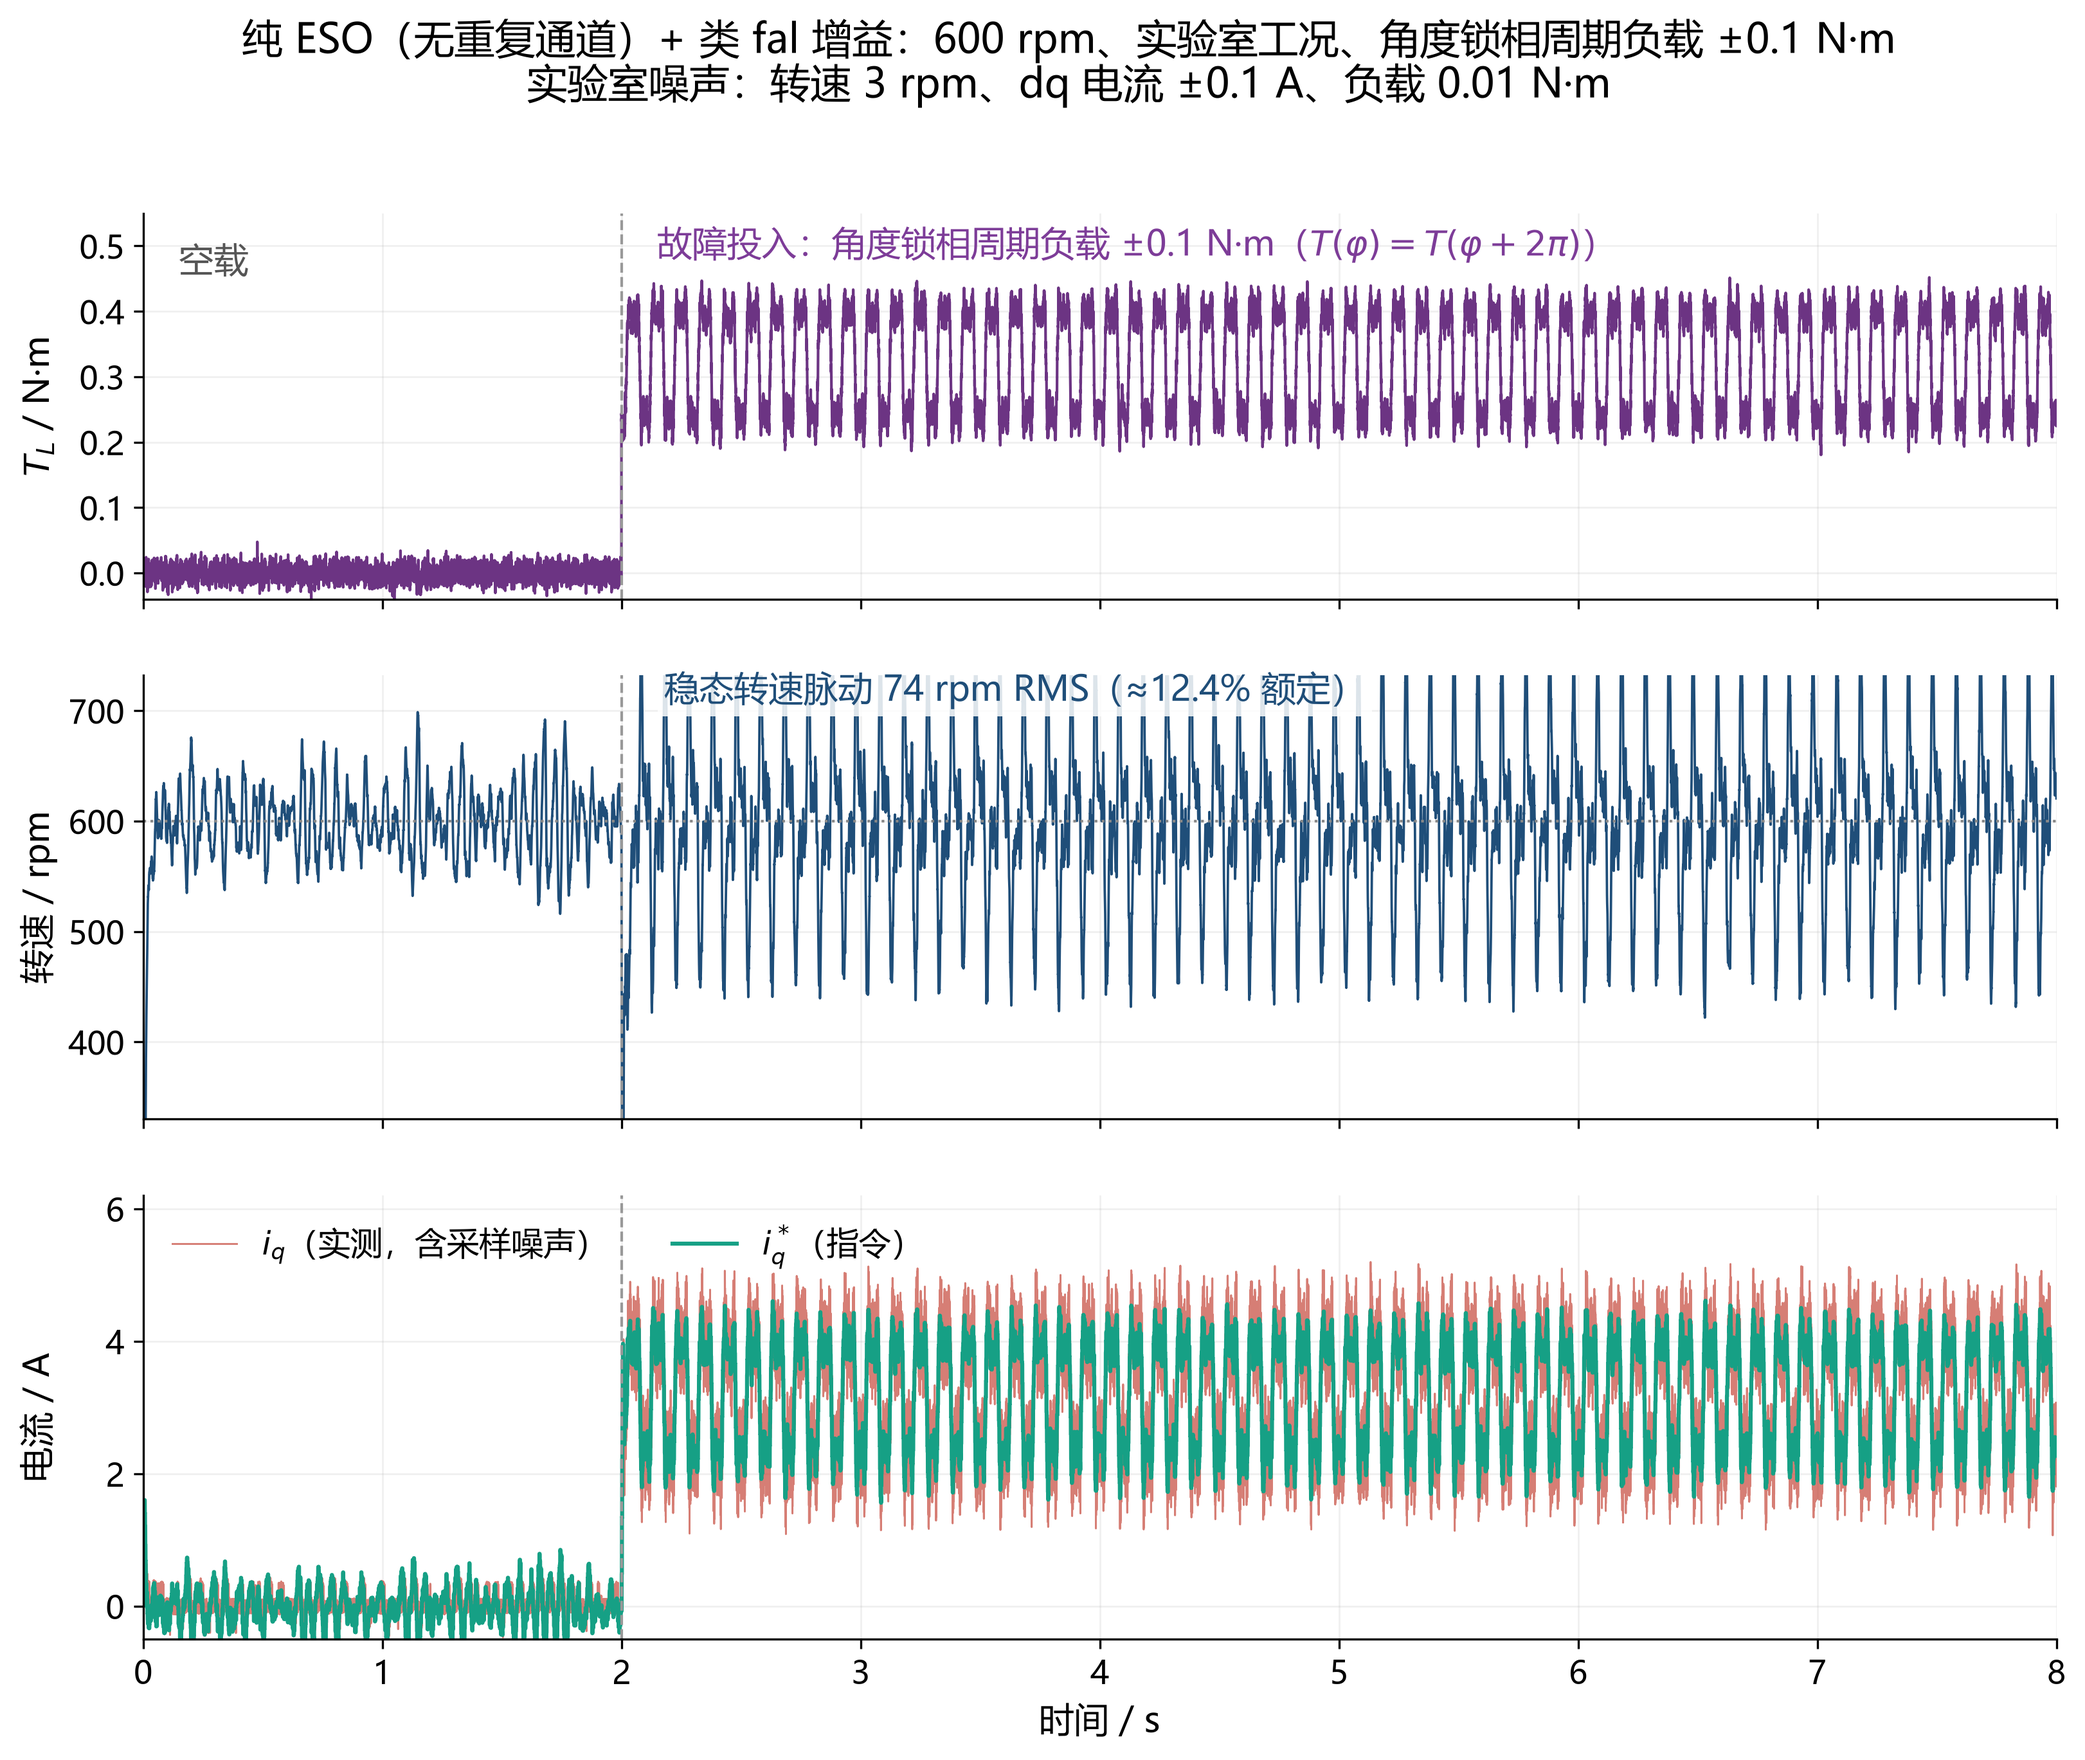
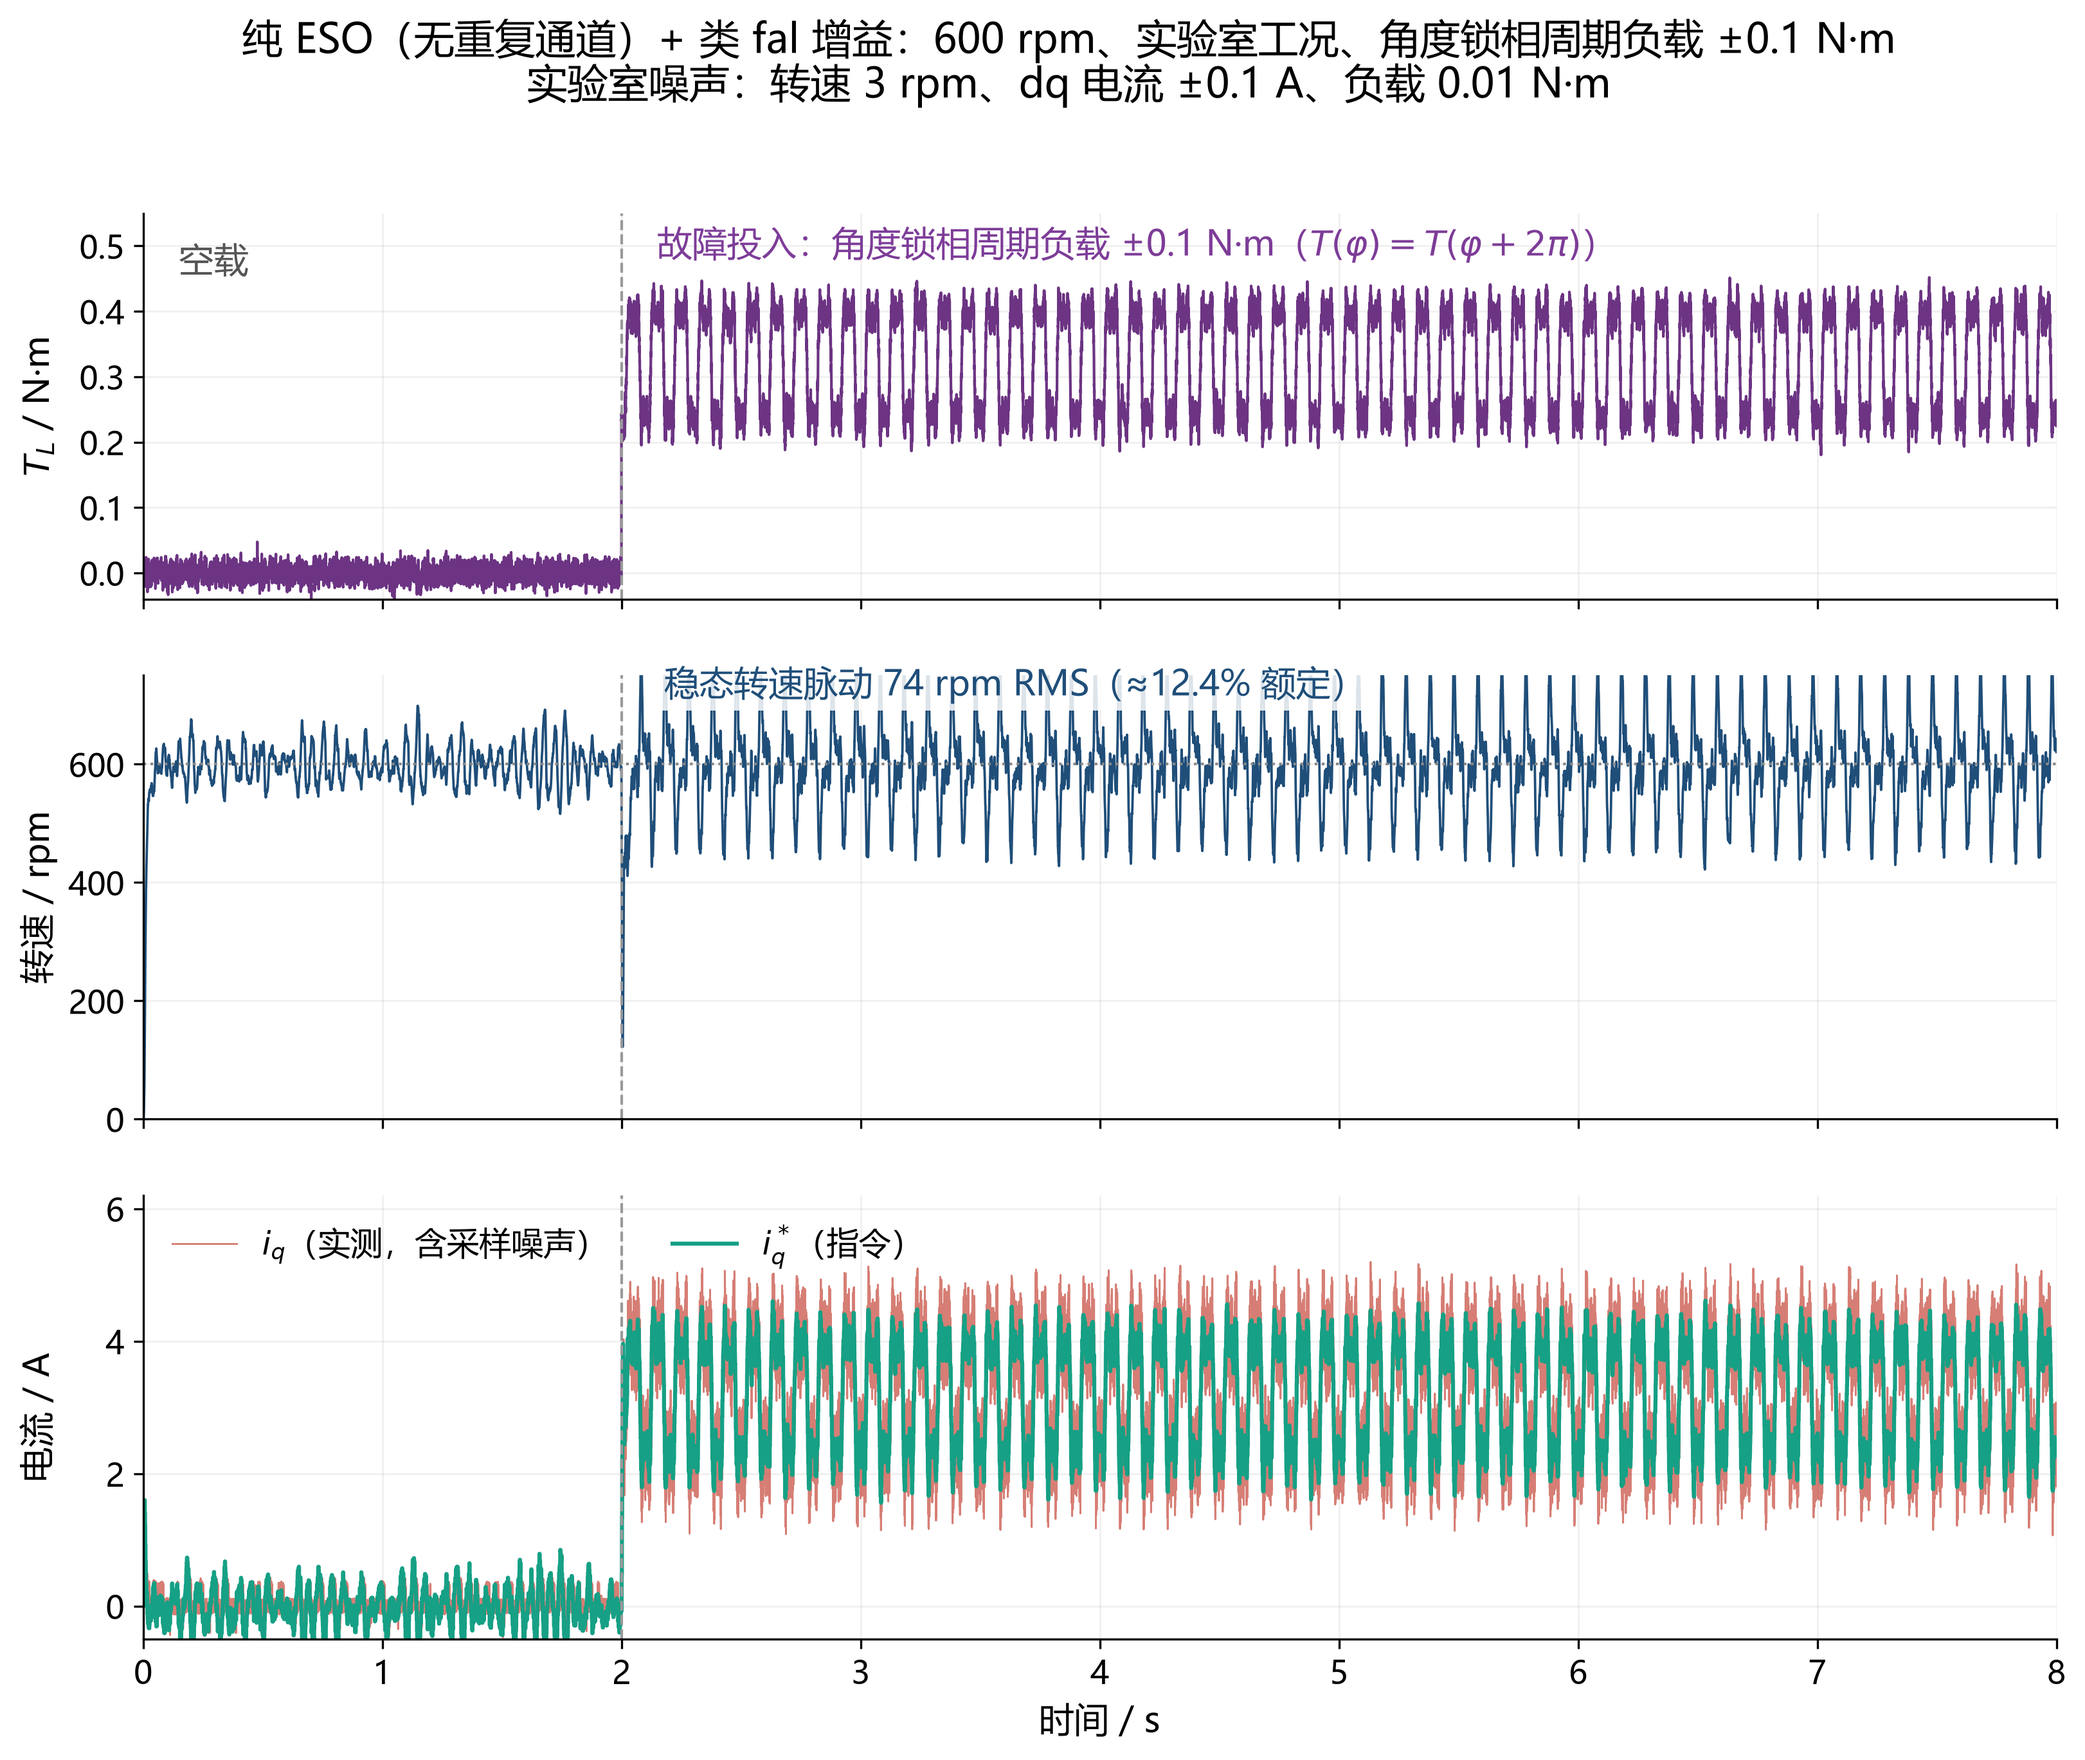
style(ppt): 图1 转速纵轴改为 0 起（0-750 rpm）
- 标注随之上移，避免与波形重叠

Changed region(s): [[0.0311, 0.3727, 0.9966, 0.559], [0.0311, 0.559, 0.0623, 0.6211]]

diff --git a/plot_ppt_fig1.py b/plot_ppt_fig1.py
@@ -43,9 +43,9 @@ y = D["y"] * N
 ax[1].plot(t[::step], y[::step], color=C_N, lw=0.9)
 ax[1].axhline(N, color="#888", ls=":", lw=1.0)
 ax[1].set_ylabel("转速 / rpm")
-ax[1].set_ylim(0.55 * N, 1.22 * N)
+ax[1].set_ylim(0, 1.25 * N)
 ax[1].axvline(2.0, color="#999", ls="--", lw=1.0)
-ax[1].text(2.18, 0.985 * 1.22 * N - 0.02 * N,
+ax[1].text(2.18, 1.25 * N * 0.955,
            "稳态转速脉动 %.0f rpm RMS（≈%.1f%% 额定）" % (J["steady_rms"], 100 * J["steady_rms"] / N),
            fontsize=13, color=C_N,
            bbox=dict(facecolor="white", edgecolor="none", alpha=0.85, pad=2.5))
